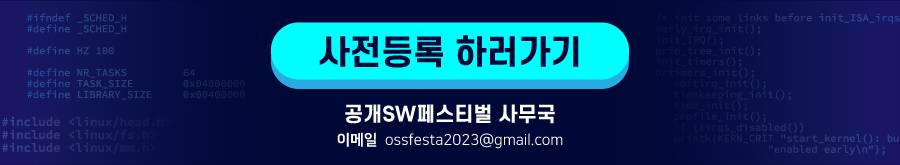
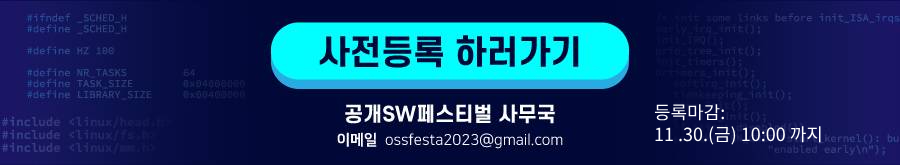
컨퍼런스 사전등록 마감처리

Changed region(s): [[0.7156, 0.7576, 0.9333, 0.8788], [0.7156, 0.6364, 0.8089, 0.7273]]

diff --git a/public/assets/img/edm2/2023 공개SW페스티벌 EDM_231120.html b/public/assets/img/edm2/2023 공개SW페스티벌 EDM_231120.html
@@ -1,0 +1,51 @@
+<html><head>
+    <title>EDM_원본(800-4356)</title>
+    <meta http-equiv="Content-Type" content="text/html; charset=utf-8">
+</head>
+<body bgcolor="#FFFFFF" leftmargin="0" topmargin="0" marginwidth="0" marginheight="0">
+<table id="__01" width="800" height="4130" border="0" cellpadding="0" cellspacing="0">
+    <tbody><tr>
+        <td>
+            <img src="https://ossfestival.kr/assets/img/edm2/edm-1.jpg" width="800" height="1017" alt=""></td>
+    </tr>
+    <tr>
+        <td>
+            <a href="https://ossfestival.kr/directions">
+                <img src="https://ossfestival.kr/assets/img/edm2/edm-2-directions.jpg" width="800" height="41" alt=""></a></td>
+    </tr>
+    <tr>
+        <td>
+            <img src="https://ossfestival.kr/assets/img/edm2/edm-3.jpg" width="800" height="82" alt=""></td>
+    </tr>
+    <tr>
+        <td>
+            <a href="https://ossfestival.kr/">
+                <img src="https://ossfestival.kr/assets/img/edm2/edm-4-home.jpg" width="800" height="45" alt=""></a></td>
+    </tr>
+    <tr>
+        <td>
+            <img src="https://ossfestival.kr/assets/img/edm2/edm-5-program1.jpg" width="800" height="2223" alt=""></td>
+    </tr>
+    <tr>
+        <td>
+            <a href="https://ossfestival.kr/preRegistration-sprint?viewId=SprintApply">
+                <img src="https://ossfestival.kr/assets/img/edm2/edm-6-program2-sprint.jpg" width="800" height="29" alt=""></a></td>
+    </tr>
+    <tr>
+        <td>
+            <img src="https://ossfestival.kr/assets/img/edm2/edm-7-program3.jpg" width="800" height="86" alt=""></td>
+    </tr>
+    <tr>
+        <td>
+            <a href="https://ossfestival.kr/preRegistration">
+                <img src="https://ossfestival.kr/assets/img/edm2/edm-8-preRegi.jpg" width="800" height="145" alt=""></a></td>
+    </tr>
+    <tr>
+        <td>
+            <img src="https://ossfestival.kr/assets/img/edm2/edm-9.jpg" width="800" height="688" alt=""></td>
+    </tr>
+    </tbody></table>
+<!-- End Save for Web Slices -->
+
+
+</body></html>

diff --git a/public/assets/img/edm/231109/2023 공개SW페스티벌 EDM.html b/public/assets/img/edm/231109/2023 공개SW페스티벌 EDM.html
@@ -1,0 +1,42 @@
+<html><head>
+    <title>EDM_원본(800-4130)</title>
+    <meta http-equiv="Content-Type" content="text/html; charset=utf-8">
+</head>
+<body bgcolor="#FFFFFF" leftmargin="0" topmargin="0" marginwidth="0" marginheight="0">
+<table id="__01" width="800" height="4130" border="0" cellpadding="0" cellspacing="0">
+    <tbody><tr>
+        <td>
+            <img src="https://ossfestival.kr/assets/img/edm/231109/edm-231109-1.jpg" width="800" height="1156" alt=""></td>
+    </tr>
+    <tr>
+        <td>
+            <a href="https://ossfestival.kr/directions">
+            <img src="https://ossfestival.kr/assets/img/edm/231109/edm-231109-2-directions.jpg" width="800" height="42" alt=""></a></td>
+    </tr>
+    <tr>
+        <td>
+            <img src="https://ossfestival.kr/assets/img/edm/231109/edm-231109-3.jpg" width="800" height="81" alt=""></td>
+    </tr>
+    <tr>
+        <td>
+            <a href="https://ossfestival.kr/">
+                <img src="https://ossfestival.kr/assets/img/edm/231109/edm-231109-4-home.jpg" width="800" height="39" alt=""></a></td>
+    </tr>
+    <tr>
+        <td>
+            <img src="https://ossfestival.kr/assets/img/edm/231109/edm-231109-5.jpg" width="800" height="2097" alt=""></td>
+    </tr>
+    <tr>
+        <td>
+            <a href="https://ossfestival.kr/preRegistration">
+                <img src="https://ossfestival.kr/assets/img/edm/231109/edm-231109-6-preRegi.jpg" width="800" height="146" alt=""></a></td>
+    </tr>
+    <tr>
+        <td>
+            <img src="https://ossfestival.kr/assets/img/edm/231109/edm-231109-7.jpg" width="800" height="701" alt=""></td>
+    </tr>
+    </tbody></table>
+<!-- End Save for Web Slices -->
+
+
+</body></html>
